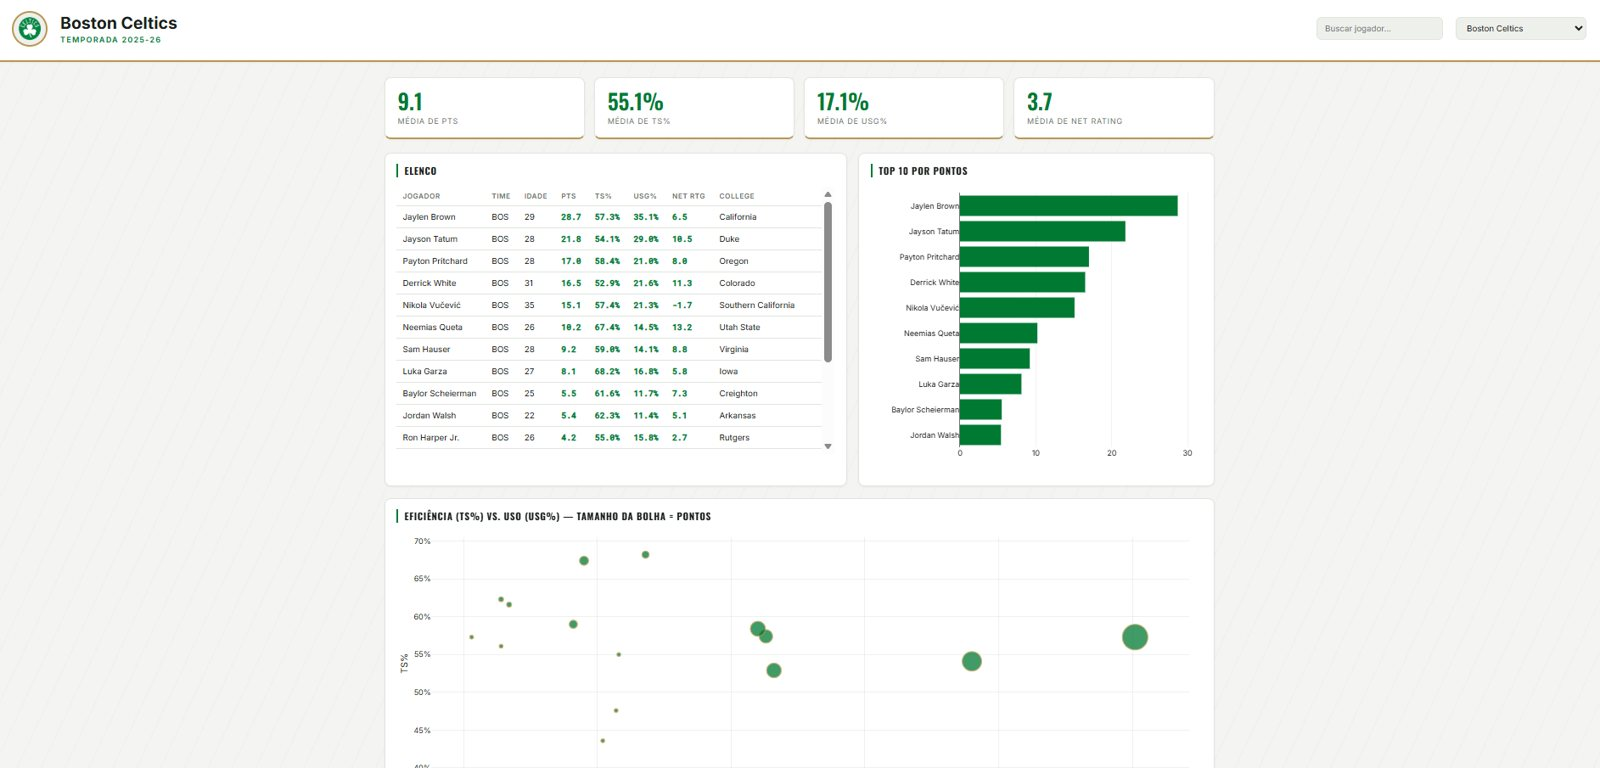
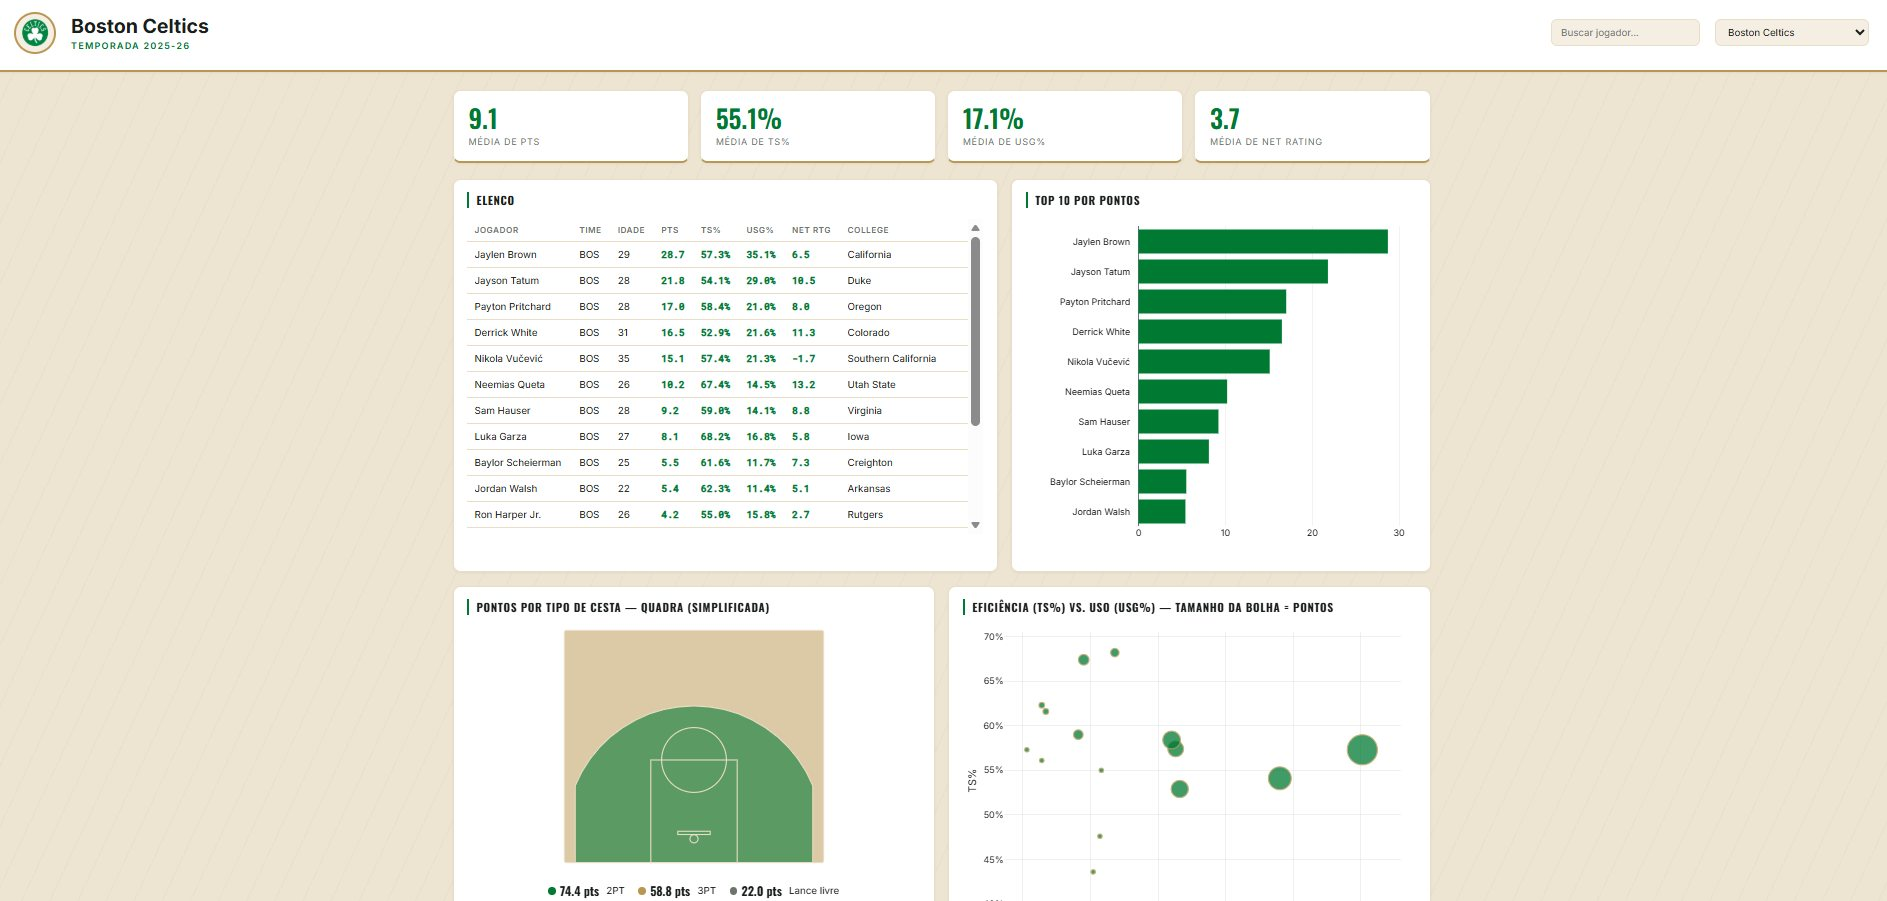
Atualiza o projeto NBA com as mudanças do repositório
Claude-Session: https://claude.ai/code/session_01TQPZt4boTNMBsRecYnGGx4

diff --git a/data.js b/data.js
@@ -154,7 +154,7 @@ const PROJETOS = [
     destaque: false,
     imagem: "img/nba.jpg",
     resumo:
-      "Estatísticas de todos os jogadores da temporada, filtráveis por time, com o visual se adaptando às cores de cada franquia. Coleta em Python, banco em esquema estrela no Supabase e front consultando a API direto.",
+      "Estatísticas de todos os jogadores da temporada, filtráveis por time, com o painel inteiro mudando para as cores de cada franquia. Coleta em Python, banco em esquema estrela no Supabase e front consultando a API direto.",
     numero: { valor: "30", rotulo: "times" },
     stack: ["Python", "nba_api", "Supabase", "PostgreSQL", "Plotly.js"],
     links: {
@@ -167,14 +167,18 @@ const PROJETOS = [
     decisoes: [
       { t: "Esquema estrela com campo de temporada já na fato", d: "Adicionar outra temporada é rodar a coleta de novo, não redesenhar o banco." },
       { t: "Front direto no Supabase, sem backend", d: "Só funciona com segurança porque a chave do navegador é só leitura via Row Level Security." },
+      { t: "Fundo de cada time gerado com color-mix", d: "Uma fórmula mistura a cor secundária da franquia com branco e serve para 29 times. O Nets, que tem branco como secundária, ganhou um tema escuro próprio." },
+      { t: "Quadra mostra volume, não posição de arremesso", d: "A API não informa de onde saiu cada cesta, só o total por tipo. Em vez de inventar posição, o gráfico mostra garrafão e área do arco com intensidade pelo peso de 2PT, 3PT e lance livre." },
     ],
     bugs: [
       { t: "API da NBA bloqueia IP de nuvem", d: "No Colab dava timeout. É bloqueio de IP de datacenter. A coleta passou a rodar local." },
       { t: "Altura vindo como texto", d: "O campo chega como \"6-6\". Troquei pelo campo numérico em polegadas e converti para centímetros." },
       { t: "NaN não é JSON válido", d: "Jogador sem estatística quebrava o envio. Entrou uma limpeza explícita antes do upsert." },
+      { t: "Coluna nova no meio de uma view", d: "Ao incluir pontos por tipo de cesta, o Postgres recusou o CREATE OR REPLACE VIEW, que só aceita coluna nova no final. Reordenei a view." },
     ],
     resultado: [
-      "Visual que troca de cor conforme o time escolhido",
+      "Painel inteiro troca de cor conforme o time escolhido",
+      "Quebra de pontos por tipo de cesta numa quadra simplificada",
       "View no banco entrega tudo pronto, sem join no navegador",
     ],
   },
